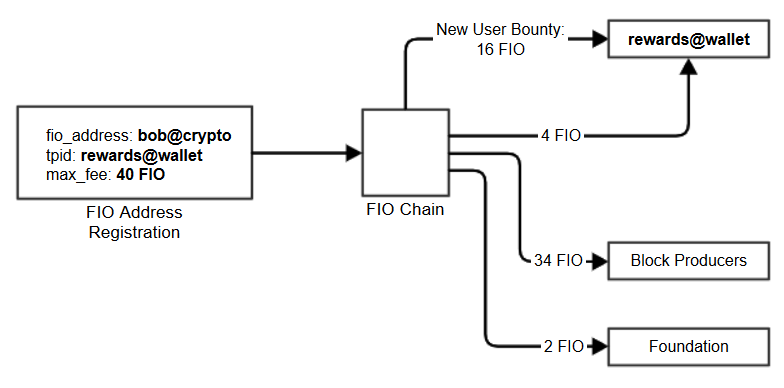
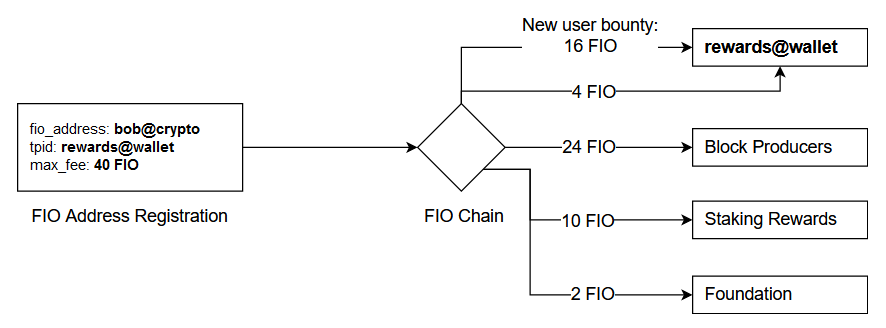
Fix fee percentages

Changed region(s): [[0.0, 0.0305, 1.0, 0.9756]]

diff --git a/_docs/fio-protocol/fio-fees.md b/_docs/fio-protocol/fio-fees.md
@@ -117,7 +117,8 @@ See [https://www.alohaeos.com/tools/fiofees](https://www.alohaeos.com/tools/f
 
 |Share |Recipient|
 |---|---|
-|85% |Block Producers |
+|60% |Block Producers |
+|25% |Staking reward pool |
 |10% |Entity facilitating transaction (TPID) or, if not provided, block producers |
 |5% |Foundation |
 
